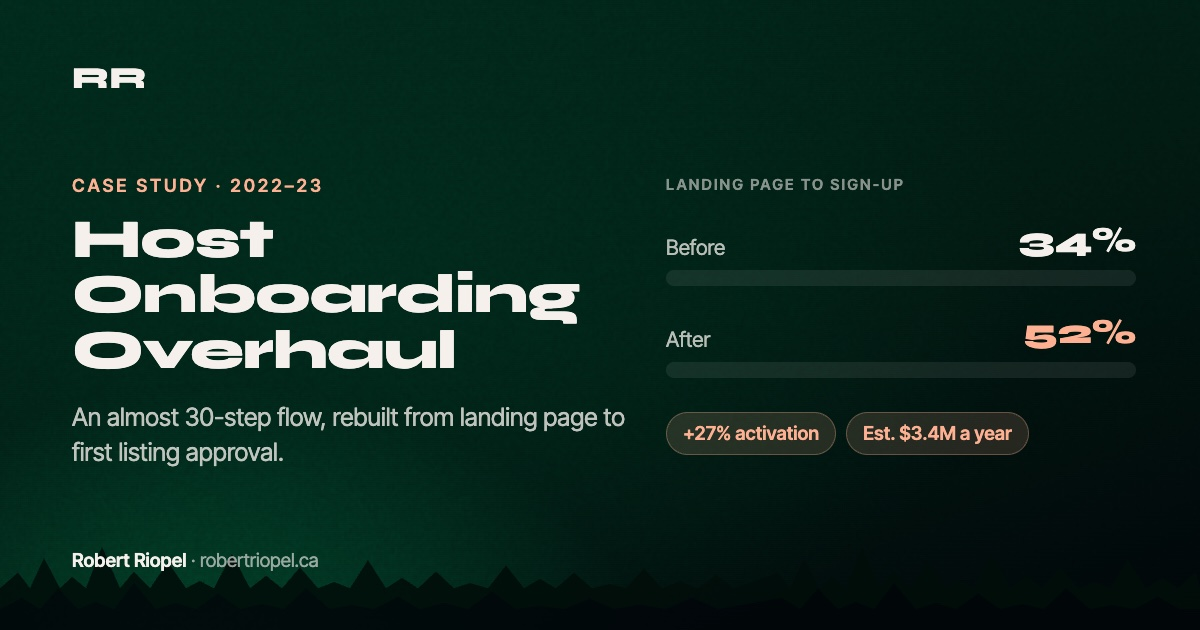
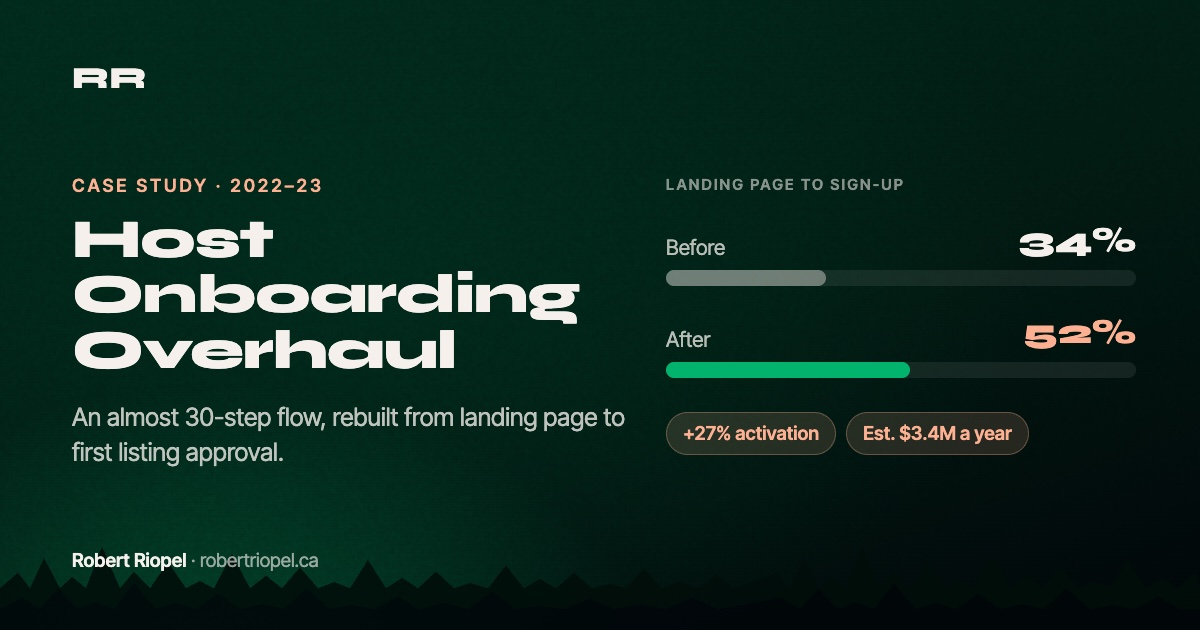
Email Builder in its working state; impact bars on share cards
The case study now describes the builder as it's meant to run:
drafts that save as you work and reopen from the Drafts panel,
images on RVezy's CDN, and a new In Practice section on how
marketing uses it (campaigns, lifecycle emails, host growth).

The bar fills on the Work, Pay-in-Full, Host Dashboard and Host
Onboarding share cards were inline spans, so their width never
applied and the bars rendered empty. They're blocks now.

Changed region(s): [[0.555, 0.573, 0.7708, 0.6032], [0.555, 0.4222, 0.7092, 0.4524]]

diff --git a/case-studies/email-builder.html b/case-studies/email-builder.html
@@ -336,7 +336,7 @@
             <li><button type="button" class="eb-step" data-go="1"><span class="n">02</span><b>Blocks</b><small>Add any of 17 blocks, then move them up or down. Each one is already on brand.</small><span class="bar" aria-hidden="true"></span></button></li>
             <li><button type="button" class="eb-step" data-go="2"><span class="n">03</span><b>Edit</b><small>Click any text in the preview and type. Braze personalization keeps its fallback, so the preview reads like the real email.</small><span class="bar" aria-hidden="true"></span></button></li>
             <li><button type="button" class="eb-step" data-go="3"><span class="n">04</span><b>Preview</b><small>Check it in light and dark, on desktop and on a phone, before anyone hits send.</small><span class="bar" aria-hidden="true"></span></button></li>
-            <li><button type="button" class="eb-step" data-go="4"><span class="n">05</span><b>Copy</b><small>One click copies HTML that&rsquo;s ready for Braze, with tracking already on every button.</small><span class="bar" aria-hidden="true"></span></button></li>
+            <li><button type="button" class="eb-step" data-go="4"><span class="n">05</span><b>Copy</b><small>One click copies HTML that&rsquo;s ready for Braze, with tracking already on every button. The draft stays saved for next time.</small><span class="bar" aria-hidden="true"></span></button></li>
           </ol>
           <div class="eb-flow-foot"><span>Built from the builder&rsquo;s own palettes and Welcome template.</span><button type="button" class="eb-pause" aria-pressed="false" hidden>Pause</button></div>
         </div>
@@ -382,7 +382,7 @@
       <div class="max-w-3xl">
         <h2 class="font-display text-2xl font-bold mb-8">What the builder handles, so nobody has to</h2>
       </div>
-      <ul class="grid grid-cols-1 md:grid-cols-3 gap-px bg-border rounded-xl overflow-hidden border border-border">
+      <ul class="grid grid-cols-1 sm:grid-cols-2 md:grid-cols-4 gap-px bg-border rounded-xl overflow-hidden border border-border">
         <li class="bg-surface p-6 md:p-7">
           <p class="font-display text-lg font-bold mb-2">Light and dark</p>
           <p class="text-sm text-muted leading-relaxed">Every block has a light and a dark palette. You build in one, and copy the HTML for that one.</p>
@@ -407,6 +407,42 @@
           <p class="font-display text-lg font-bold mb-2">AI copy assist</p>
           <p class="text-sm text-muted leading-relaxed">Name a field, describe what you want, and the builder drafts the copy, with the subject line as context.</p>
         </li>
+        <li class="bg-surface p-6 md:p-7">
+          <p class="font-display text-lg font-bold mb-2">Saved drafts</p>
+          <p class="text-sm text-muted leading-relaxed">Every change saves as you work. The Drafts panel reopens any email right where you left it.</p>
+        </li>
+        <li class="bg-surface p-6 md:p-7">
+          <p class="font-display text-lg font-bold mb-2">Hosted images</p>
+          <p class="text-sm text-muted leading-relaxed">Images live on RVezy&rsquo;s own CDN, and every image block sizes itself for desktop and phone.</p>
+        </li>
+      </ul>
+    </section>
+
+    <!-- In practice -->
+    <section class="mt-22 reveal">
+      <div class="section-divider mb-8">
+        <span class="tag">In Practice</span>
+      </div>
+      <div class="max-w-3xl">
+        <h2 class="font-display text-2xl font-bold mb-5">How marketing uses it</h2>
+        <p class="text-muted leading-relaxed mb-8">The builder is made for the emails a marketplace sends every week, from one-off sales to the lifecycle emails that run all year.</p>
+      </div>
+      <ul class="grid grid-cols-1 md:grid-cols-3 gap-px bg-border rounded-xl overflow-hidden border border-border">
+        <li class="bg-surface p-6 md:p-7">
+          <p class="tag mb-3">Campaigns</p>
+          <p class="font-display text-lg font-bold mb-2">A sale on a deadline</p>
+          <p class="text-sm text-muted leading-relaxed">A weekend flash sale goes from the Promotional template to Braze in one sitting. AI copy assist drafts the headline, a quick check in dark mode and on a phone, and every button already carries the campaign&rsquo;s tracking.</p>
+        </li>
+        <li class="bg-surface p-6 md:p-7">
+          <p class="tag mb-3">Lifecycle</p>
+          <p class="font-display text-lg font-bold mb-2">Emails that run all year</p>
+          <p class="text-sm text-muted leading-relaxed">Welcome, booking confirmation and anniversary emails are built once with Braze personalization, saved as drafts, and updated whenever an offer changes, without a request to design or engineering.</p>
+        </li>
+        <li class="bg-surface p-6 md:p-7">
+          <p class="tag mb-3">Host growth</p>
+          <p class="font-display text-lg font-bold mb-2">Making the case to hosts</p>
+          <p class="text-sm text-muted leading-relaxed">Host acquisition emails lean on the trust blocks. Feature rows, trust badges and an info callout explain earnings and protection the same way in every send.</p>
+        </li>
       </ul>
     </section>
 
@@ -424,7 +460,7 @@
         <div class="bg-surface p-6"><dt class="tag mb-2">Output</dt><dd class="text-sm text-ink font-medium">Table-based HTML email</dd></div>
         <div class="bg-surface p-6"><dt class="tag mb-2">Sends from</dt><dd class="text-sm text-ink font-medium">Braze, with Liquid personalization</dd></div>
         <div class="bg-surface p-6"><dt class="tag mb-2">AI</dt><dd class="text-sm text-ink font-medium">Copy assist, through its own API route</dd></div>
-        <div class="bg-surface p-6"><dt class="tag mb-2">Tracking</dt><dd class="text-sm text-ink font-medium">Built-in UTM builder</dd></div>
+        <div class="bg-surface p-6"><dt class="tag mb-2">Drafts</dt><dd class="text-sm text-ink font-medium">Supabase, saved as you work</dd></div>
         <div class="bg-surface p-6"><dt class="tag mb-2">Hosting</dt><dd class="text-sm text-ink font-medium">Vercel</dd></div>
         <div class="bg-surface p-6"><dt class="tag mb-2">Replaced</dt><dd class="text-sm text-ink font-medium">Figma, an export plugin and hand fixes</dd></div>
       </dl>

diff --git a/src/og/og-page.html b/src/og/og-page.html
@@ -39,7 +39,7 @@
   .bar-row .label { font-size: 21px; color: rgb(245 240 235 / 0.75); }
   .bar-row .value { font-family: "Syne", sans-serif; font-weight: 800; font-size: 34px; color: var(--cream); }
   .bar-row .track { grid-column: 1 / -1; height: 16px; border-radius: 99px; background: rgb(245 240 235 / 0.08); overflow: hidden; }
-  .bar-row .fill { height: 100%; border-radius: 99px; background: rgb(245 240 235 / 0.4); }
+  .bar-row .fill { display: block; height: 100%; border-radius: 99px; background: rgb(245 240 235 / 0.4); }
   .bar-row.hi .fill { background: var(--jungle); }
   .bar-row.hi .value { color: var(--peach); }
   .chips { display: flex; flex-wrap: wrap; gap: 10px; margin-top: 8px; }
